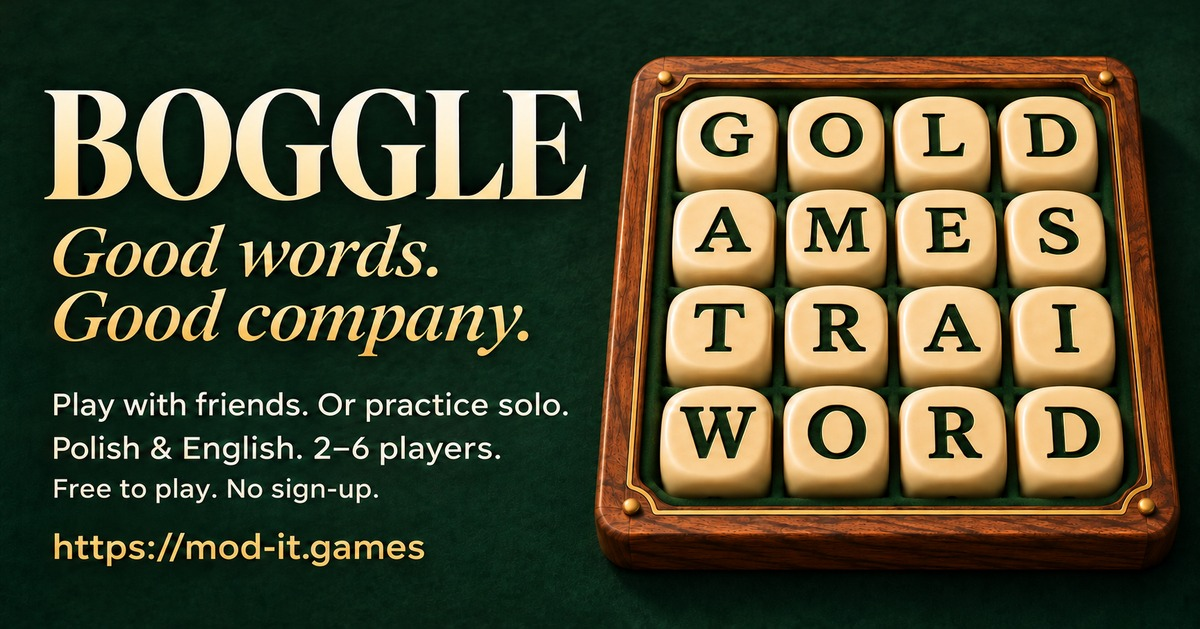
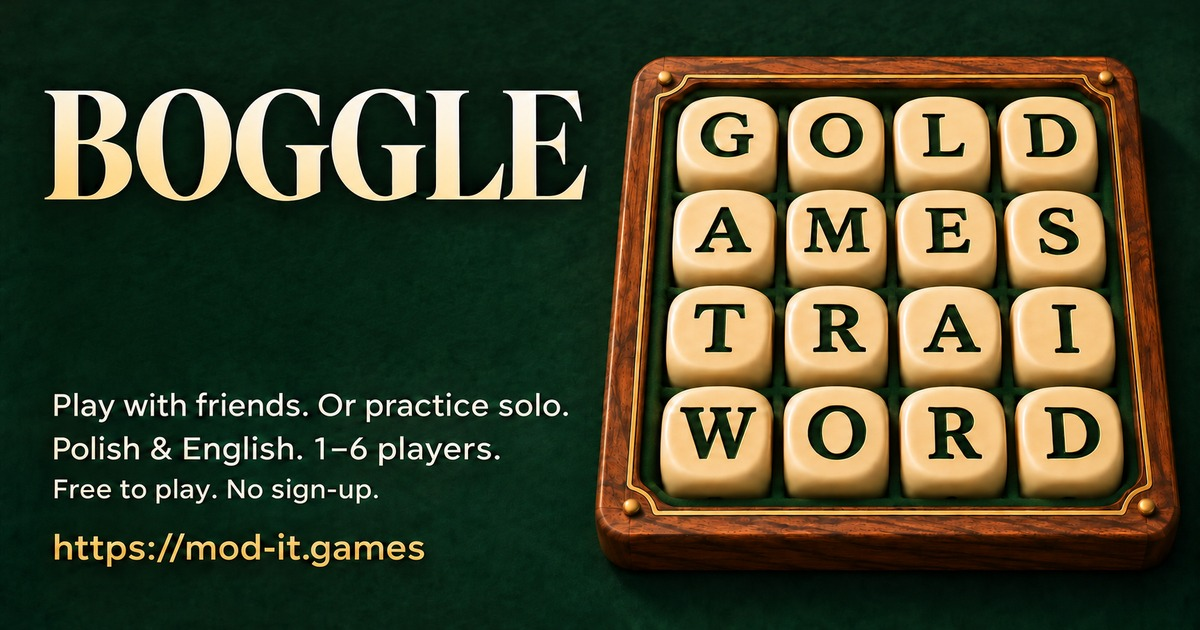
Refresh revised Boggle JPEG exports and preview dimensions

diff --git a/games/boggle/index.html b/games/boggle/index.html
@@ -21,7 +21,7 @@
   <meta property="og:image" content="https://mod-it.games/multiplayer/assets/boggle-social.jpg">
   <meta property="og:image:type" content="image/jpeg">
   <meta property="og:image:width" content="1200">
-  <meta property="og:image:height" content="629">
+  <meta property="og:image:height" content="630">
   <meta property="og:image:alt" content="Boggle — Good words. Good company. Ivory letter cubes on emerald felt. Polish and English. Play with friends or practice solo.">
   <meta name="twitter:card" content="summary_large_image">
   <meta name="twitter:title" content="Boggle — Good words. Good company.">

diff --git a/marketing/DRIVERS-SEAT-BOGGLE-PROMPTS.md b/marketing/DRIVERS-SEAT-BOGGLE-PROMPTS.md
@@ -20,7 +20,7 @@ Masters and exports:
 - Both catalogs keep independent `assets/*-cover.jpg` (1200 × 800) and `*-cover-600.webp` / `*-cover-1200.webp` copies.
 - `../assets/tow-drivers-seat-social.jpg` and `../assets/boggle-social.jpg`: optimized poster exports for each game’s Open Graph and large-image previews.
 
-Exports only resize/compress the generated artwork. All covers are 1536 × 1024. Social masters are approximately 1732 × 908; the actual 1200px JPEG export heights are recorded in each game’s Open Graph metadata (629px).
+Exports only resize/compress the generated artwork. All covers are 1536 × 1024. Social masters are approximately 1732 × 908; the actual 1200px JPEG export heights are recorded in each game’s Open Graph metadata (629px for Driver’s Seat, 630px for the revised Boggle poster).
 
 The Boggle poster received one final built-in edit to restore the omitted free-play line:
 
